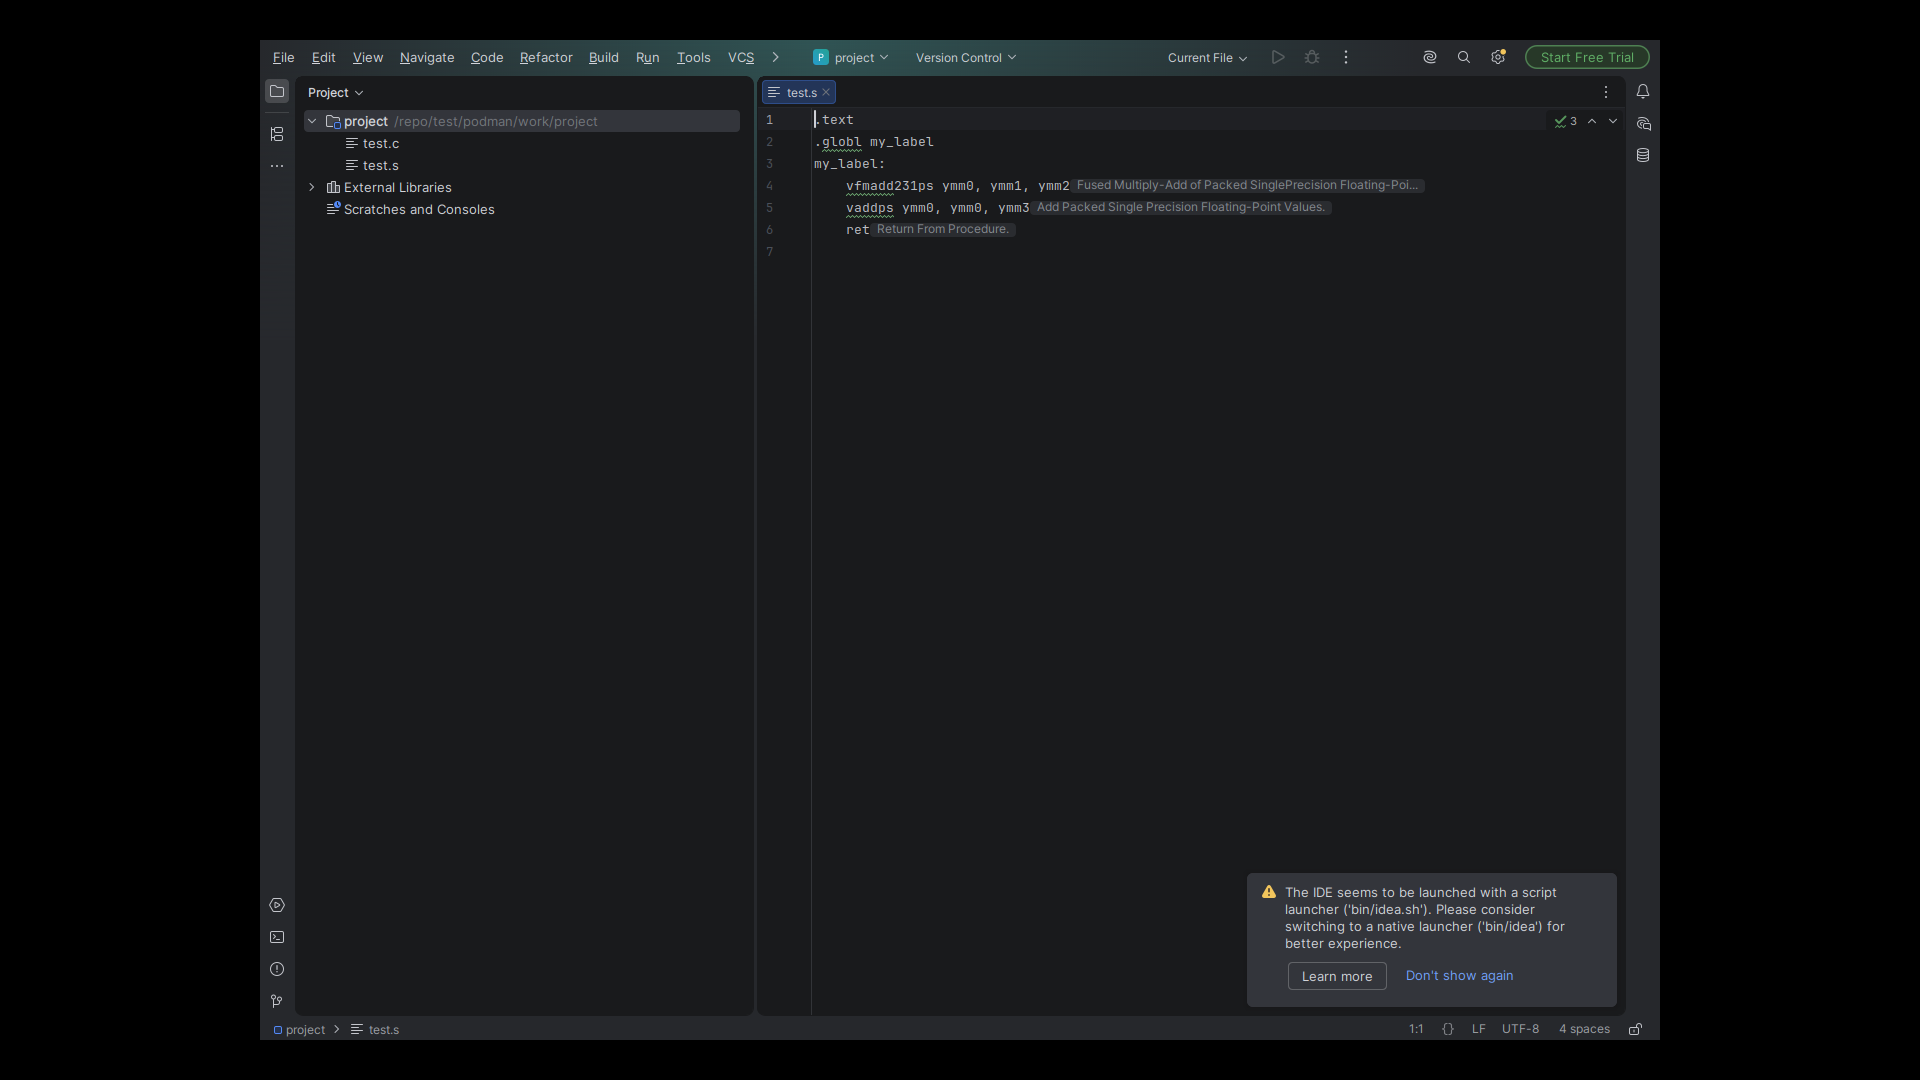
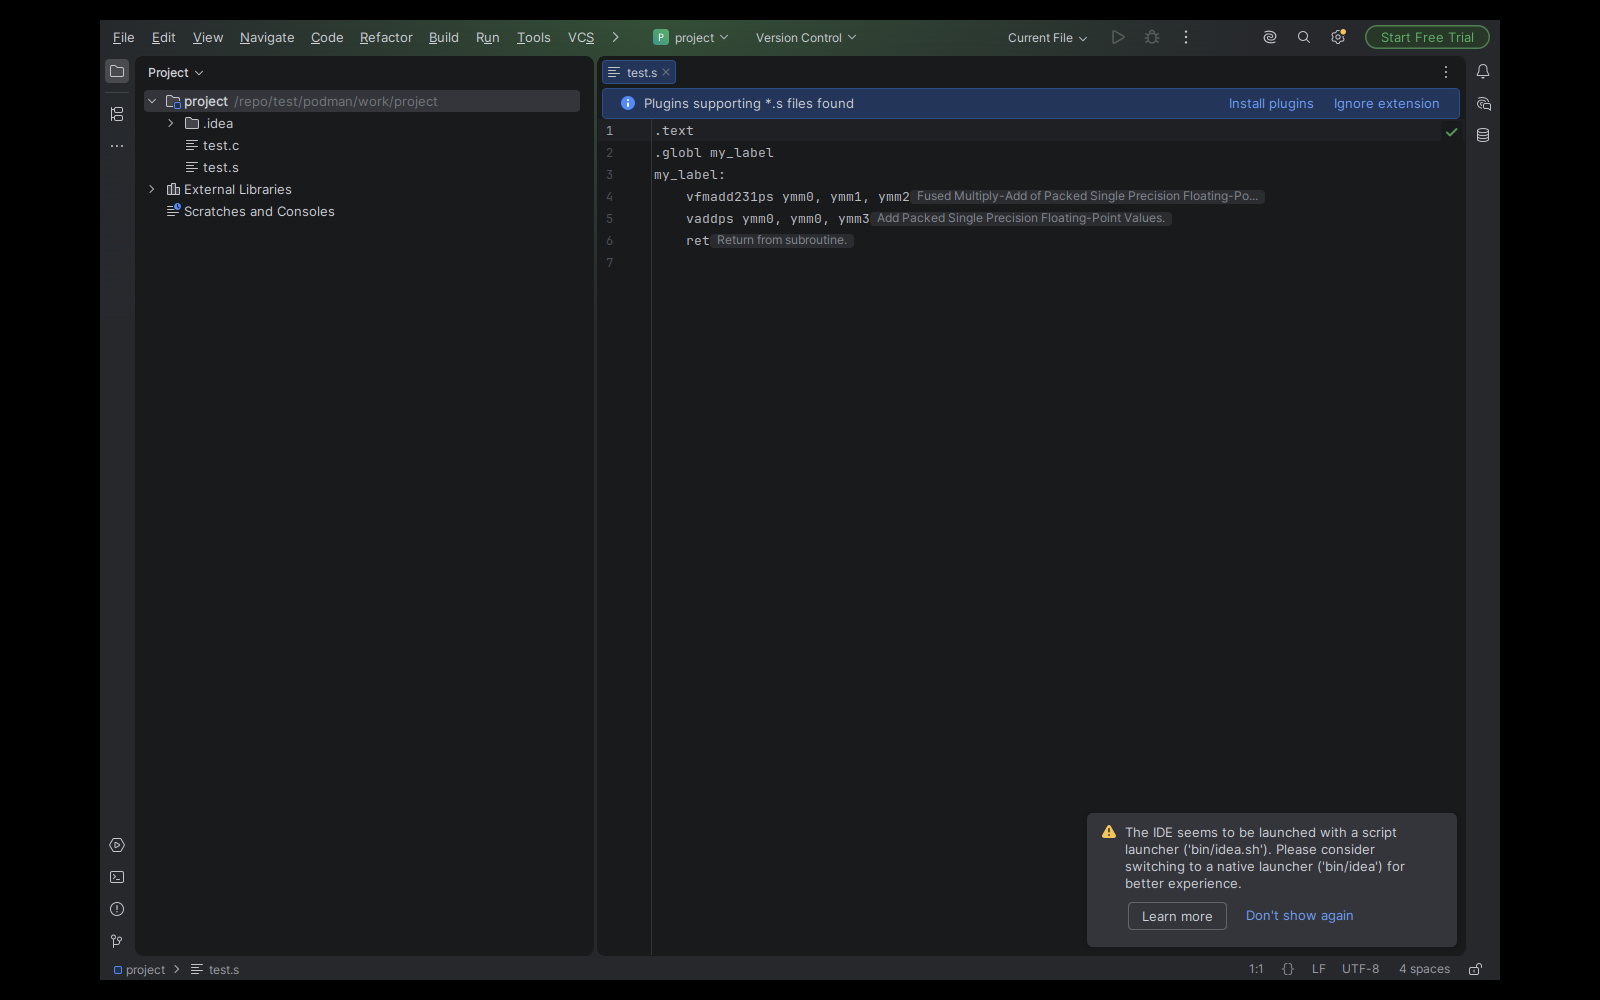
Retake README screenshots (IDEA 2026.1, spellchecker off)
New frames from the test/podman OCR-gated rig:
- idea-asm.png, idea-cpp.png: inlay-hint shots (existing names)
- idea-asm-hover.png, idea-cpp-hover.png: hover tooltip shots (new)

The spellchecker runs in the IDE core in build 261, so the rig disables
the SpellCheckingInspection inspection instead of plugin ids.

Assisted-by: Qwen/Qwen3.8-27B-FP8

Changed region(s): [[0.0625, 0.0, 0.9375, 0.992]]

diff --git a/README.md b/README.md
@@ -1,1 +1,1 @@
-Screenshots for the main README. This branch has one commit; it is replaced, not appended.
+Screenshots for the main README. The main README links pin the newest commit sha of this branch.
